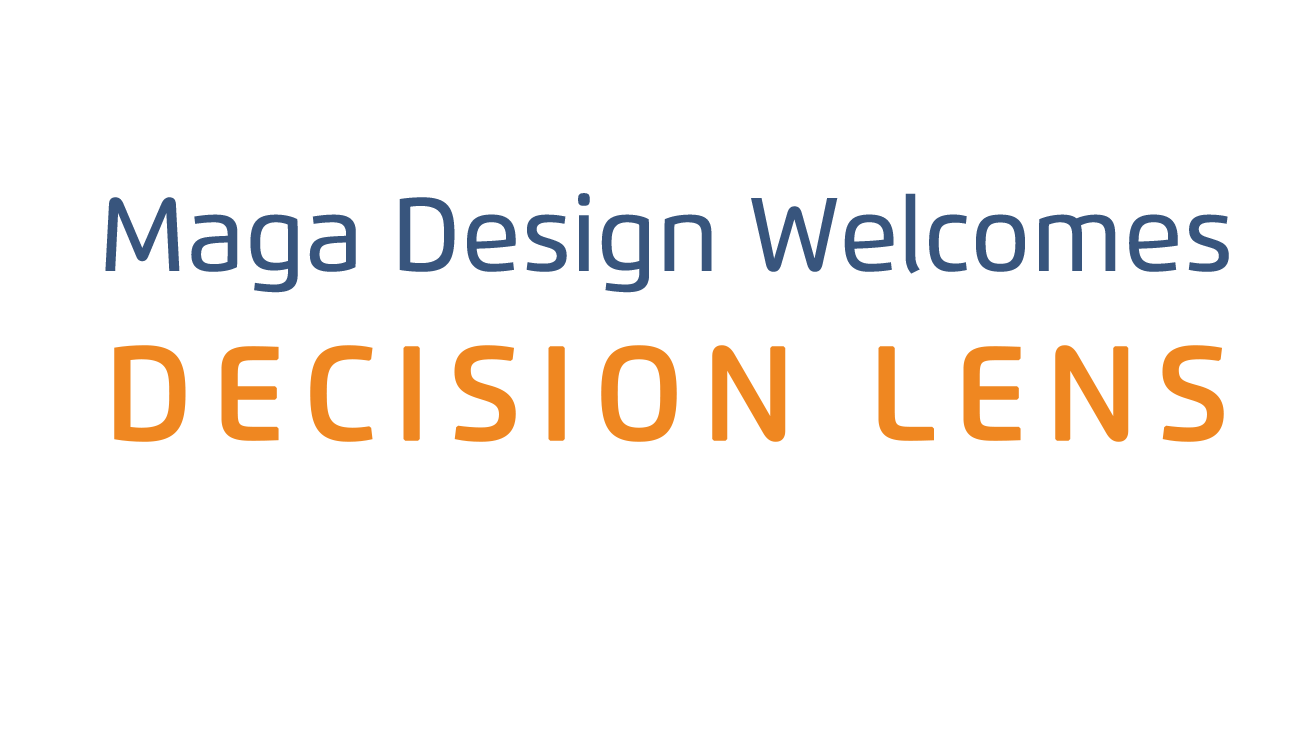
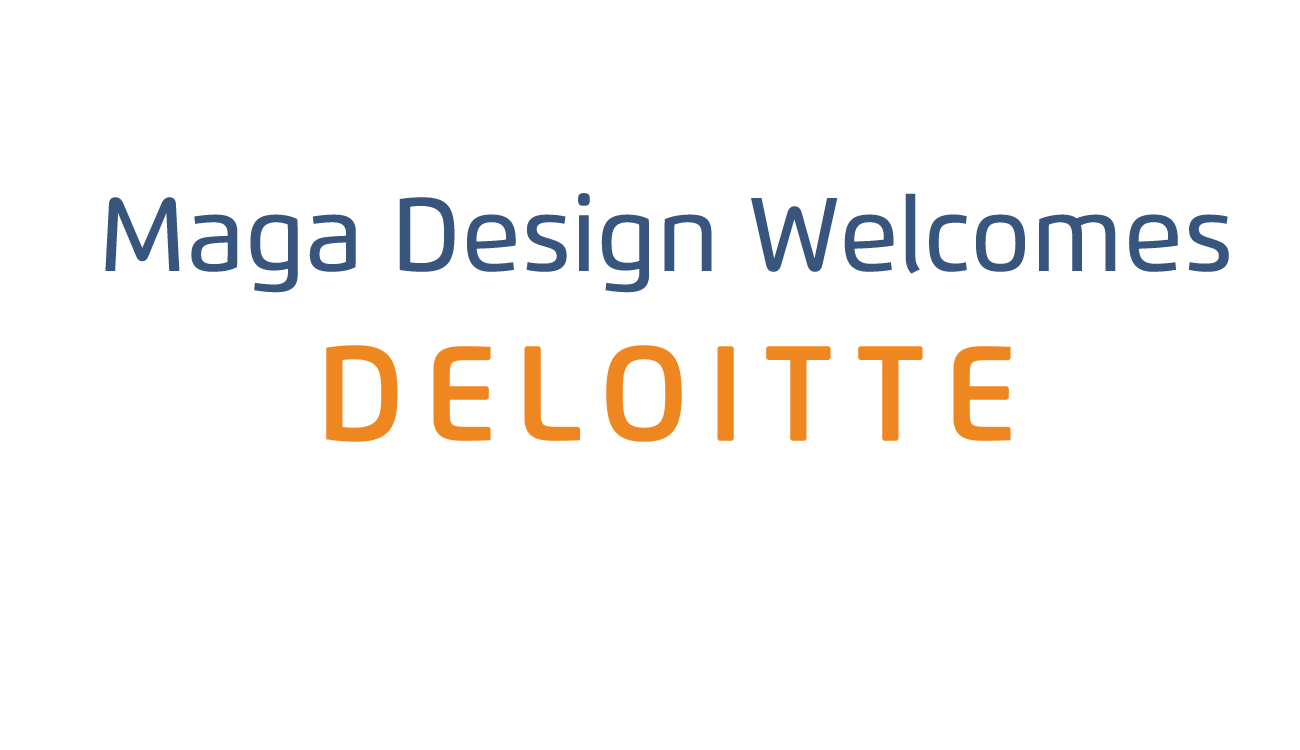
deloitte welcome sign added

Changed region(s): [[0.0615, 0.46, 0.9538, 0.6133]]

diff --git a/index.html b/index.html
@@ -183,7 +183,7 @@
 			<div id="slide5" class="slide"></div>
 			<div id="slide6" class="slide"></div>
 			<div id="slide7" class="slide"></div>
-			<!--<div id="slide8" class="slide"></div>!-->
+			<div id="slide8" class="slide"></div>
 			
 		</div><!--wrapper ends-->
 

diff --git a/style.css b/style.css
@@ -70,7 +70,7 @@ body {
 
 .wrapper {
 	height: 850px;
-	width: 9600px;  /*10800 with welcome screen && 9600 without welcome screen */
+	width: 10800px;  /*10800 with welcome screen && 9600 without welcome screen */
 }
 
 p {
